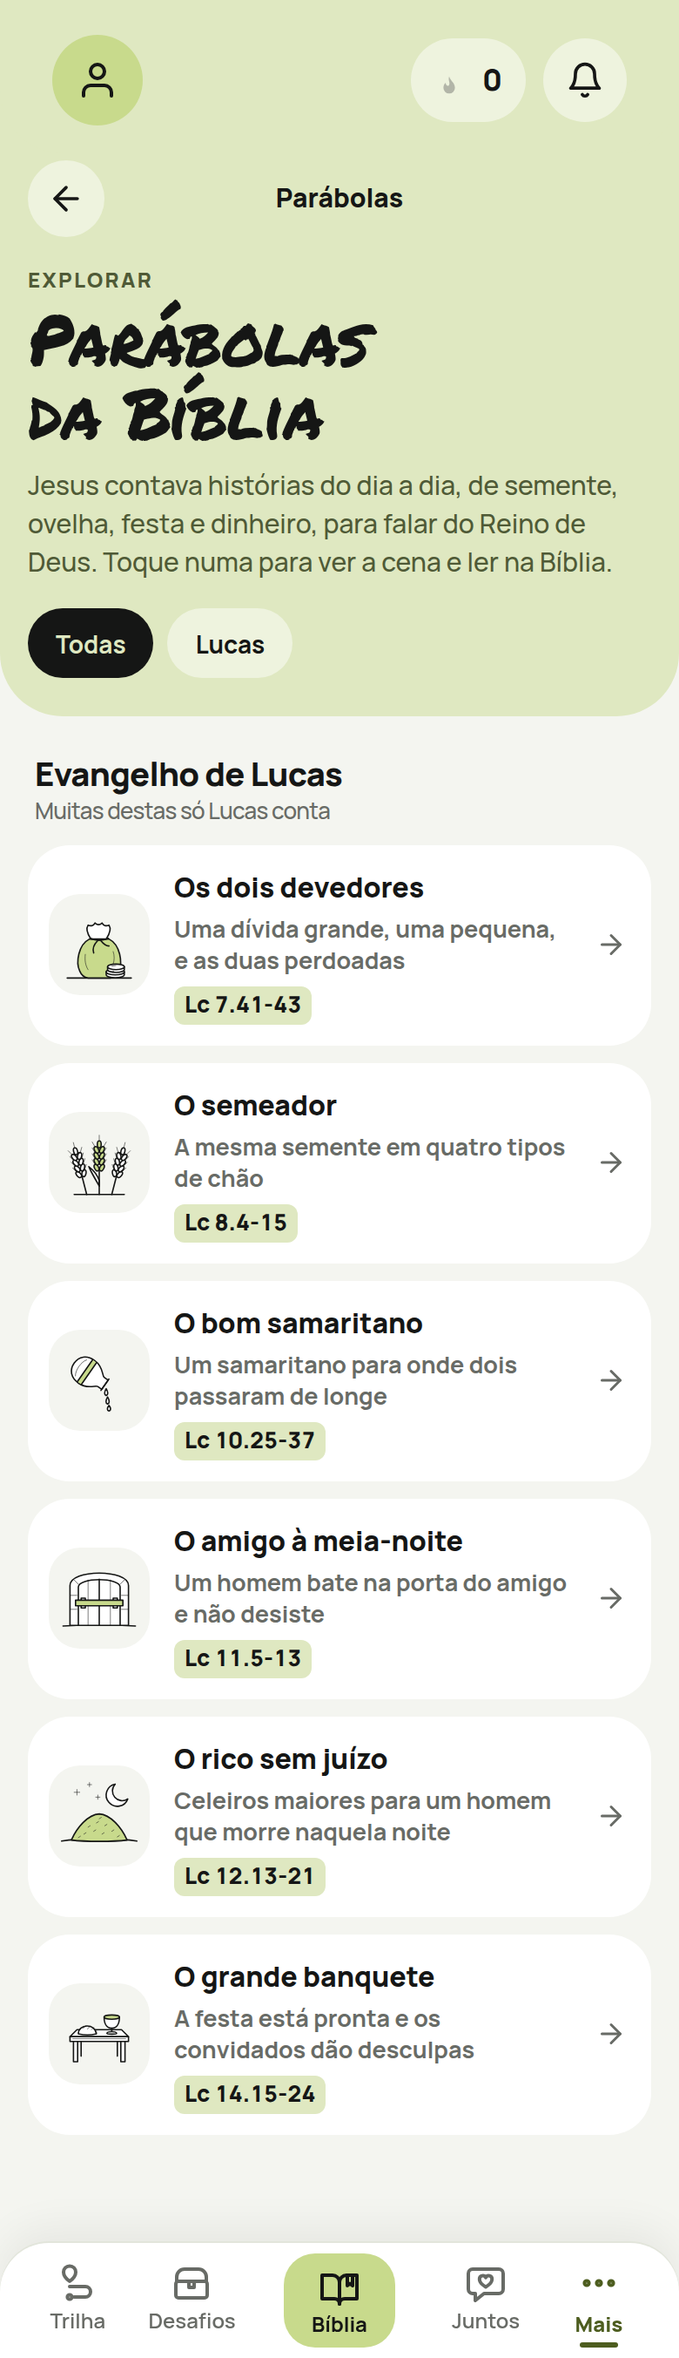
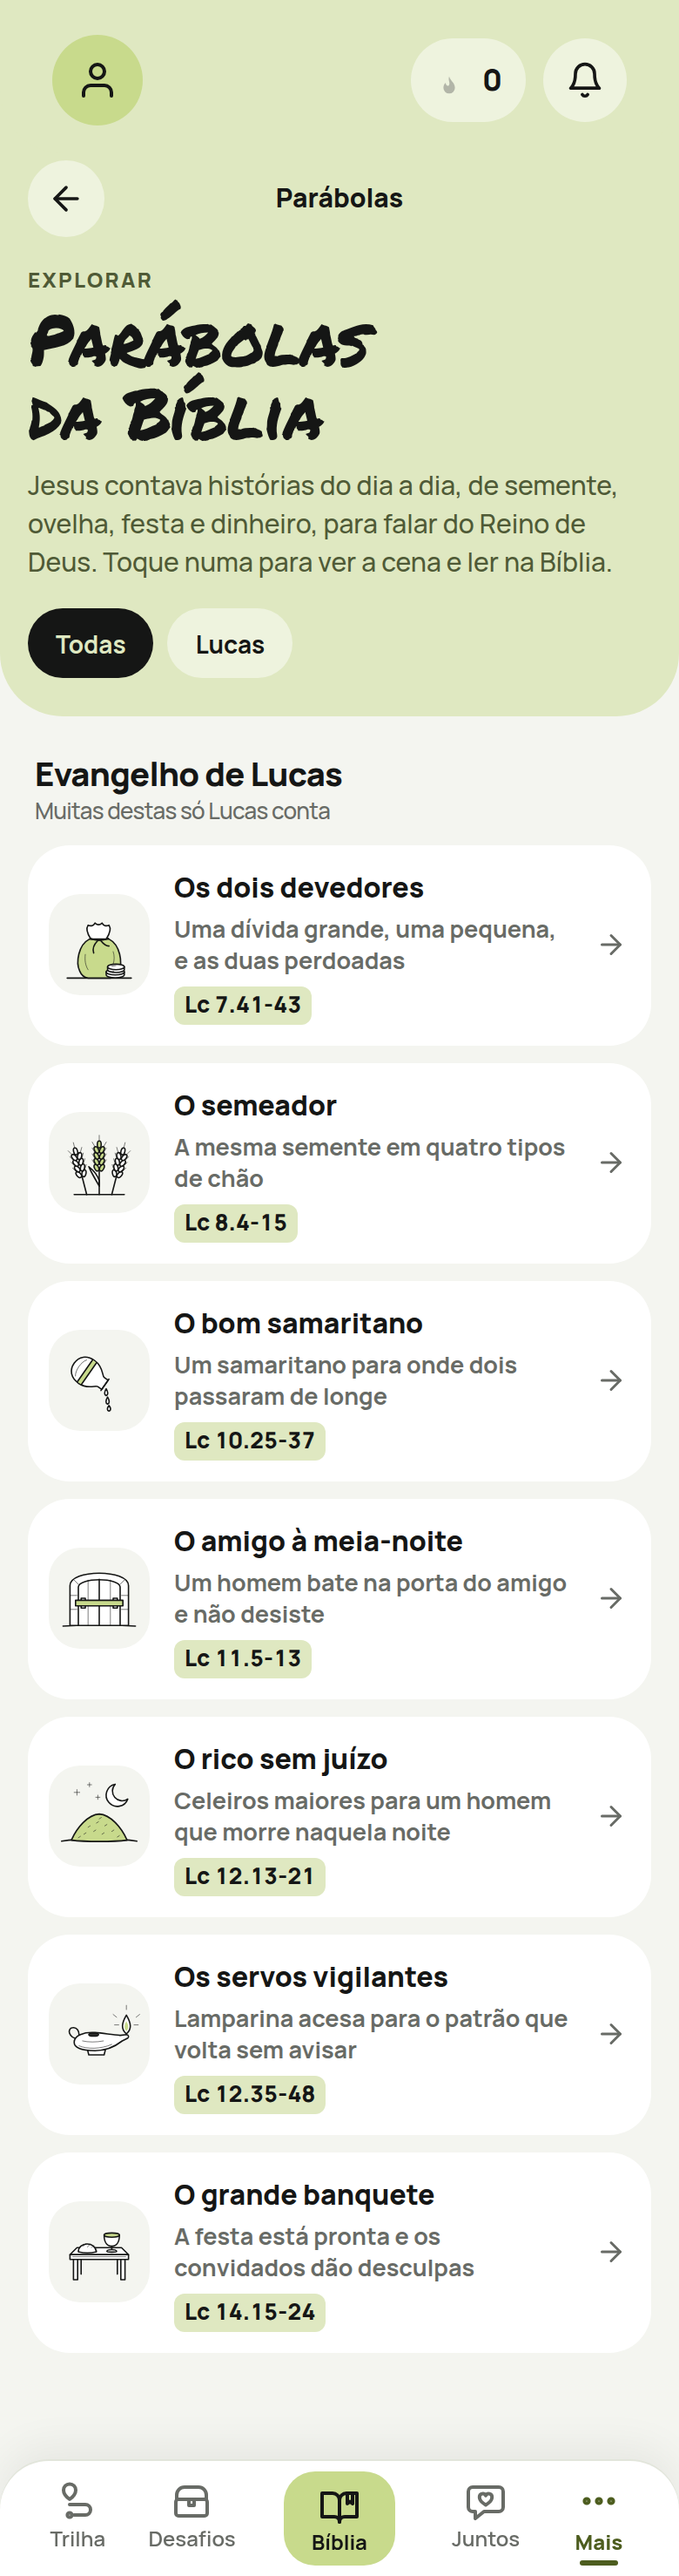
Parábola dos servos vigilantes
Os servos vigilantes (Lc 12.35-48): as lamparinas acesas, o patrão que
volta da festa e serve a mesa, o ladrão que não avisa, a pergunta de
Pedro e os dois caminhos do servo num bloco de itens, e a parecida em
Mt 24.42-51. Desenho novo da porta entreaberta com a lamparina, e o
ícone da lamparina para as seções.

Claude-Session: https://claude.ai/code/session_0181e5xzHUW8QLQRgjbfooCS

diff --git a/src/sob-demanda/parabola-tela.js b/src/sob-demanda/parabola-tela.js
@@ -94,6 +94,7 @@
     pessoas: '<circle cx="9" cy="8" r="3"/><path d="M3 20c0-3.5 2.7-6 6-6s6 2.5 6 6"/><circle cx="17" cy="9" r="2.5"/><path d="M16 14c3 0 5 2.2 5 5"/>',
     estrada: '<path d="M8 3L4 21M16 3l4 18M12 5v3M12 11v3M12 17v3"/>',
     broto: '<path d="M12 21V11"/><path d="M12 11C12 6 8 4 4 4c0 4 3 7 8 7zM12 13c0-4 3-6 8-6 0 4-3 6-8 6z"/>',
+    lamparina: '<path d="M3 15c2 3 12 3 15-1H8c-3 0-5 0-5 1z"/><path d="M18 14l3-2"/><path d="M20 10c-2-2-1-4 0-6 1 2 2 4 0 6z"/>',
     moeda: '<circle cx="12" cy="12" r="8"/><circle cx="12" cy="12" r="4.5"/>',
     ancora: '<circle cx="12" cy="5" r="2"/><path d="M12 7v14M8 11h8M5 14c0 4 3 7 7 7s7-3 7-7"/>',
   };
